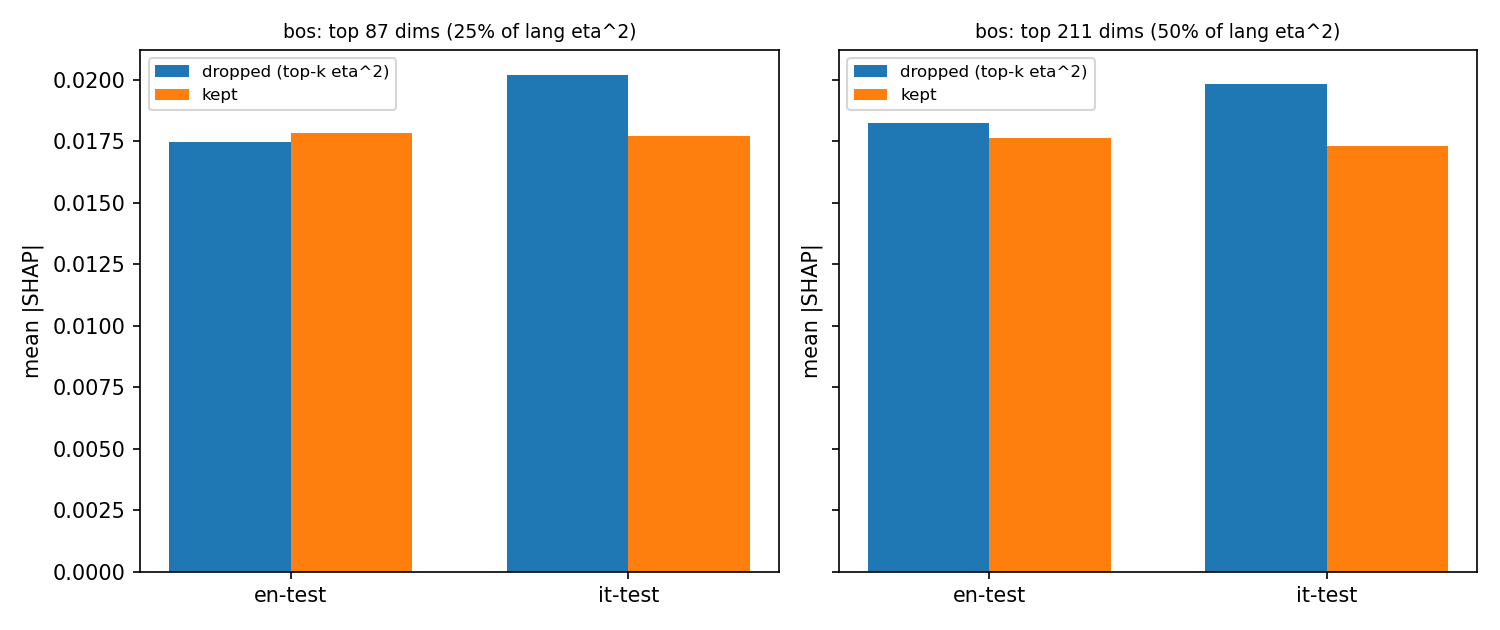
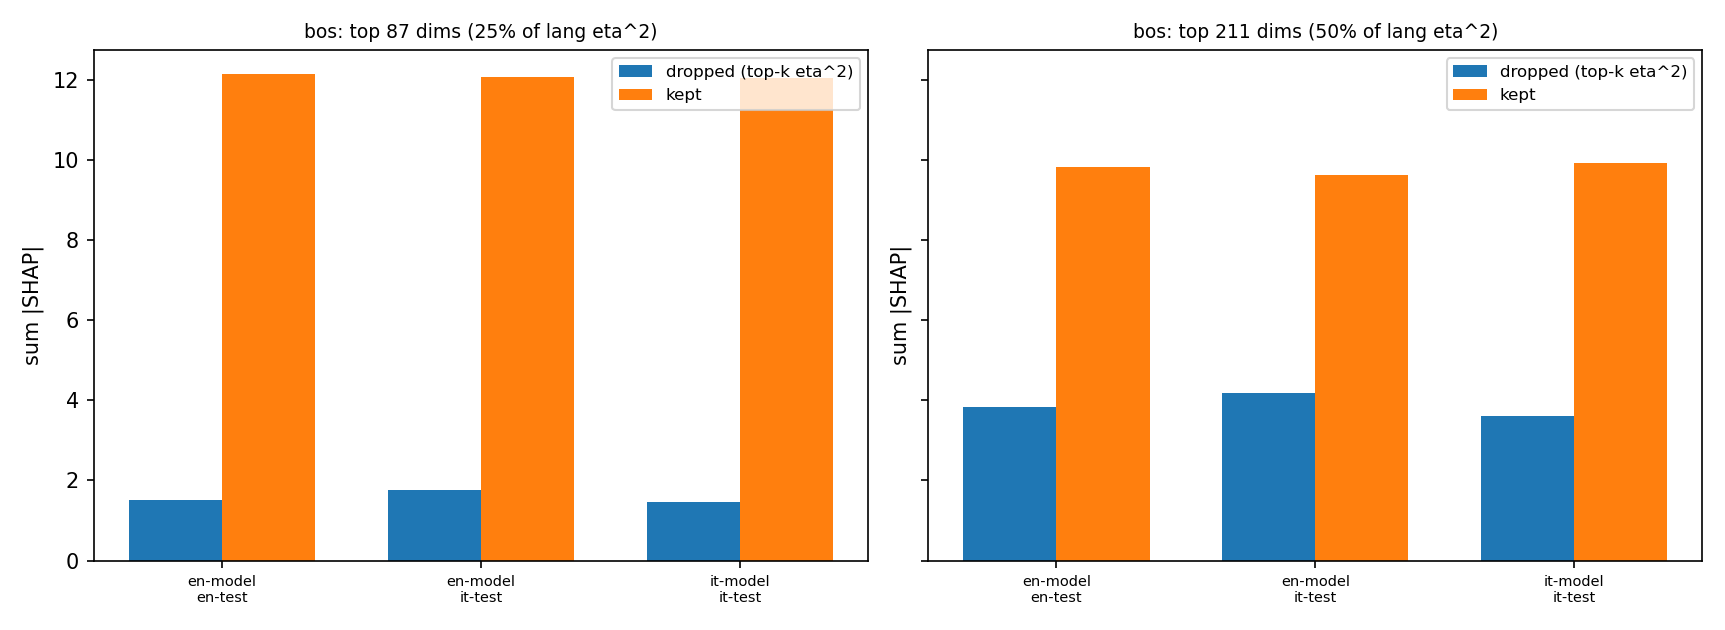
SHAP dropped-vs-kept: Italian-model cells and sum/share metric

diff --git a/shap_flores_dropped.py b/shap_flores_dropped.py
@@ -5,8 +5,8 @@ Trains the English baseline (dev+devtest, 1503 rows) with baseline params and ex
 506-row held-out test set, once with en test inputs and once with it test inputs (the model is
 never trained on all 2009 rows and never evaluated in-sample).  For every mode we rank dims by
 the 4-language per-dim eta^2 (one-way ANOVA over en/it/de/fr), take the top-k dims that carry
-25%/50% of the eta^2 mass ("dropped") and the rest ("kept"), then compare mean |SHAP| over the
-two dim groups, and the dropped/kept ratio.
+25%/50% of the eta^2 mass ("dropped") and the rest ("kept"), then compare the summed per-dim
+mean |SHAP| over the two dim groups, and the dropped share of that sum.
 
 Writes pca_plots/shap_dropped_vs_kept_{mode}.png and shap_flores_dropped.md (+ .json).
 """
@@ -26,26 +26,13 @@ import matplotlib.pyplot as plt
 
 import shap
 import xgboost_topic_optuna as X
+from lang_metrics import eta2_lang
 
 BASE = os.path.dirname(os.path.abspath(__file__))
 OUT = os.path.join(BASE, "pca_plots")
 MODES = ["mean", "bos"]
 INPUT_LANGS = ["en", "it"]  # test-input languages we explain
 FRACTIONS = [(0.25, "25%"), (0.50, "50%")]
-
-
-def eta2_lang(mode):
-    """Per-dimension eta^2 of a one-way ANOVA over the 4 FLORES languages."""
-    E = {l: X.load_one_embedding(mode, l) for l in X.LANGS}
-    Xall = np.vstack([E[l] for l in X.LANGS])
-    y = np.repeat(X.LANGS, len(E["en"]))
-    overall = Xall.mean(0)
-    ss_tot = ((Xall - overall) ** 2).sum(0)
-    ss_bet = np.zeros(Xall.shape[1])
-    for l in set(y):
-        m = y == l
-        ss_bet += m.sum() * (Xall[m].mean(0) - overall) ** 2
-    return ss_bet / ss_tot
 
 
 def mean_abs_shap(models, Xte):
@@ -61,11 +48,12 @@ def mean_abs_shap(models, Xte):
 
 
 def main():
-    df, Y, masks, counts = X.load_data("lenient")
+    _, Y, masks, _ = X.load_data("lenient")
     dev_dt, test = masks["dev_devtest"], masks["test"]
     params = X.make_params(X.BASELINE_PARAMS)
     t_start = time.time()
     rows = []
+    it_rows = []  # symmetric Italian-model cells (model=it, inputs=it-test)
 
     for mode in MODES:
         t0 = time.time()
@@ -78,6 +66,12 @@ def main():
         # Mean |SHAP| per dim for both input sets (en test, it test).
         imp = {l: mean_abs_shap(models, Xte[l]) for l in INPUT_LANGS}
 
+        # Symmetric Italian model: train on Italian dev+devtest, same params;
+        # explain the IT-TEST inputs.
+        Xit = X.load_one_embedding(mode, "it")
+        (probs_it,), models_it = X.fit_predict(params, Xit[dev_dt], Ytr, [Xte["it"]])
+        imp_it = mean_abs_shap(models_it, Xte["it"])
+
         # 4-language eta^2 ranking + top-k dims for 25%/50% mass.
         e2 = eta2_lang(mode)
         order = np.argsort(-e2)
@@ -89,32 +83,49 @@ def main():
             dropped, kept = order[:k], order[k:]
             row = dict(mode=mode, frac=frac, label=label, k=k, n_kept=len(kept))
             for l in INPUT_LANGS:
-                d = float(imp[l][dropped].mean())
-                kp = float(imp[l][kept].mean())
-                row[l] = dict(dropped=d, kept=kp, ratio=d / kp)
+                ds = float(imp[l][dropped].sum())
+                ksum = float(imp[l][kept].sum())
+                row[l] = dict(dropped_sum=ds, kept_sum=ksum,
+                              share_dropped=ds / (ds + ksum), random_share=k / 768)
             rows.append(row)
+
+            # Symmetric Italian-model row (single input set: it-test).
+            ds_it = float(imp_it[dropped].sum())
+            ksum_it = float(imp_it[kept].sum())
+            it_rows.append(dict(model="it", mode=mode, frac=frac, label=label, k=k,
+                                n_kept=len(kept), inputs="it-test",
+                                dropped_sum=ds_it, kept_sum=ksum_it,
+                                share_dropped=ds_it / (ds_it + ksum_it), random_share=k / 768))
+
             print(f"[{mode} {label}] k={k} dims "
-                  + " | ".join(f"{l}: dropped={row[l]['dropped']:.5f} "
-                               f"kept={row[l]['kept']:.5f} ratio={row[l]['ratio']:.3f}"
+                  + " | ".join(f"{l}: dropped_sum={row[l]['dropped_sum']:.4f} "
+                               f"kept_sum={row[l]['kept_sum']:.4f} "
+                               f"share={row[l]['share_dropped']:.3f} "
+                               f"rand={row[l]['random_share']:.3f}"
                                for l in INPUT_LANGS))
+            print(f"  [model=it inputs=it-test] k={k} dims "
+                  f"dropped_sum={ds_it:.4f} kept_sum={ksum_it:.4f} "
+                  f"share={ds_it / (ds_it + ksum_it):.3f} rand={k / 768:.3f}")
 
         print(f"  {mode} done in {time.time() - t0:.1f}s")
 
-        # Bar plot: dropped vs kept mean |SHAP| for en-test and it-test, one panel per k.
-        fig, axes = plt.subplots(1, len(FRACTIONS), figsize=(10, 4.2), sharey=True)
+        # Bar plot: en-model (en-test, it-test) + symmetric it-model (it-test), one panel per k.
+        r_en = {r["frac"]: r for r in rows if r["mode"] == mode}
+        r_it = {r["frac"]: r for r in it_rows if r["mode"] == mode}
+        groups = [("en-model / en-test", "en"), ("en-model / it-test", "it")]
+        fig, axes = plt.subplots(1, len(FRACTIONS), figsize=(11.5, 4.2), sharey=True)
         for ax, (frac, label) in zip(axes, FRACTIONS):
             k = ks[frac]
-            x = np.arange(len(INPUT_LANGS))
             w = 0.36
-            dv = [row[l]["dropped"] for row in rows if row["mode"] == mode and row["frac"] == frac
-                  for l in INPUT_LANGS]
-            kv = [row[l]["kept"] for row in rows if row["mode"] == mode and row["frac"] == frac
-                  for l in INPUT_LANGS]
+            dv = [r_en[frac][l]["dropped_sum"] for _, l in groups] + [r_it[frac]["dropped_sum"]]
+            kv = [r_en[frac][l]["kept_sum"] for _, l in groups] + [r_it[frac]["kept_sum"]]
+            x = np.arange(len(dv))
             ax.bar(x - w / 2, dv, width=w, label="dropped (top-k eta^2)")
             ax.bar(x + w / 2, kv, width=w, label="kept")
-            ax.set_xticks(x, [f"{l}-test" for l in INPUT_LANGS])
+            ax.set_xticks(x, [g[0].replace(" / ", "\n") for g in groups] + ["it-model\nit-test"],
+                          fontsize=7)
             ax.set_title(f"{mode}: top {k} dims ({label} of lang eta^2)", fontsize=9)
-            ax.set_ylabel("mean |SHAP|")
+            ax.set_ylabel("sum |SHAP|")
             ax.legend(fontsize=8)
         fig.tight_layout()
         p = os.path.join(OUT, f"shap_dropped_vs_kept_{mode}.png")
@@ -122,22 +133,44 @@ def main():
         plt.close(fig)
         print("  wrote", p)
 
-    # Markdown + JSON.
-    lines = ["# Dropped vs kept language dims — SHAP (FLORES baseline, en)\n"]
-    lines.append("Baseline params, train en dev+devtest (1503), explain test (506); mean |SHAP| over "
-                 "8 tag models; dropped = top-k dims by 4-language per-dim eta^2 (one-way ANOVA over "
-                 "en/it/de/fr), kept = the rest. Cells are mean |SHAP| and the dropped/kept ratio.\n")
-    lines.append("| mode | mass | k dims | en dropped | en kept | en ratio | it dropped | it kept | it ratio |")
-    lines.append("|---|---:|---:|---:|---:|---:|---:|---:|---:|")
-    for r in rows:
-        lines.append(f"| {r['mode']} | {r['label']} | {r['k']} | "
-                     f"{r['en']['dropped']:.5f} | {r['en']['kept']:.5f} | {r['en']['ratio']:.3f} | "
-                     f"{r['it']['dropped']:.5f} | {r['it']['kept']:.5f} | {r['it']['ratio']:.3f} |")
+    # Markdown + JSON: one unified table with all three model/input combinations.
+    SETUP = {("en", "en-test"): "English model on English text",
+             ("en", "it-test"): "English model on Italian text",
+             ("it", "it-test"): "Italian model on Italian text"}
+    final_rows = []
+    for r, ir in zip(rows, it_rows):
+        final_rows.append(dict(model="en", inputs="en-test",
+                               setup=SETUP[("en", "en-test")], mode=r["mode"],
+                               label=r["label"], frac=r["frac"], k=r["k"], n_kept=r["n_kept"],
+                               dropped_sum=r["en"]["dropped_sum"], kept_sum=r["en"]["kept_sum"],
+                               share_dropped=r["en"]["share_dropped"],
+                               random_share=r["en"]["random_share"]))
+        final_rows.append(dict(model="en", inputs="it-test",
+                               setup=SETUP[("en", "it-test")], mode=r["mode"],
+                               label=r["label"], frac=r["frac"], k=r["k"], n_kept=r["n_kept"],
+                               dropped_sum=r["it"]["dropped_sum"], kept_sum=r["it"]["kept_sum"],
+                               share_dropped=r["it"]["share_dropped"],
+                               random_share=r["it"]["random_share"]))
+        final_rows.append(dict(ir, setup=SETUP[("it", "it-test")]))
+
+    lines = ["# Dropped vs kept language dims — SHAP (FLORES baseline)\n"]
+    lines.append("Baseline params; train on dev+devtest (1503), explain test (506); per-dim mean |SHAP| "
+                 "over 8 tag models; dropped = top-k dims by 4-language per-dim eta^2 (one-way ANOVA "
+                 "over en/it/de/fr), kept = the rest. Cells are the SUM over each dim group of the "
+                 "per-dim mean |SHAP| (total contribution), the dropped share of the summed |SHAP|, "
+                 "and the random baseline share k/768.\n")
+    lines.append("| model | inputs | setup | mode | drop set | k dims | sum dropped | sum kept | "
+                 "share dropped | random share |")
+    lines.append("|---|---|---|---|---:|---:|---:|---:|---:|---:|")
+    for fr in final_rows:
+        lines.append(f"| {fr['model']} | {fr['inputs']} | {fr['setup']} | {fr['mode']} | "
+                     f"{fr['label']} | {fr['k']} | {fr['dropped_sum']:.4f} | {fr['kept_sum']:.4f} | "
+                     f"{fr['share_dropped']:.3f} | {fr['random_share']:.3f} |")
     lines.append("")
     with open(os.path.join(BASE, "shap_flores_dropped.md"), "w", encoding="utf-8") as f:
         f.write("\n".join(lines) + "\n")
     with open(os.path.join(BASE, "shap_flores_dropped.json"), "w", encoding="utf-8") as f:
-        json.dump(rows, f, indent=2)
+        json.dump(final_rows, f, indent=2)
     print("wrote shap_flores_dropped.md/.json")
     print(f"total {time.time() - t_start:.1f}s")
 
